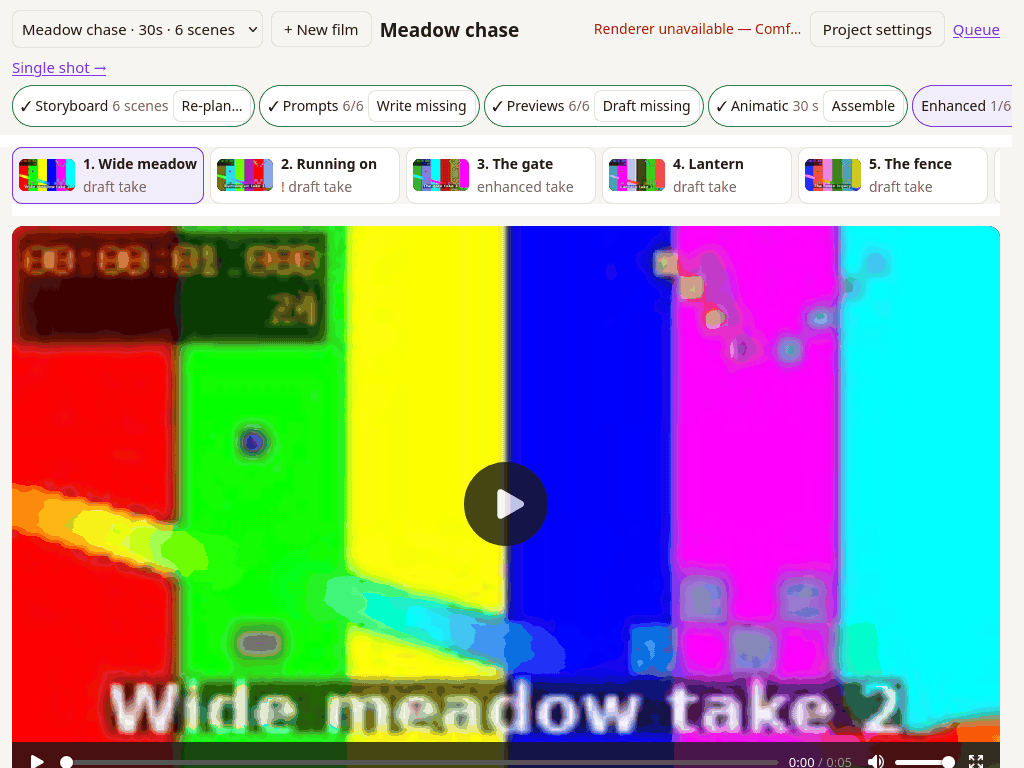
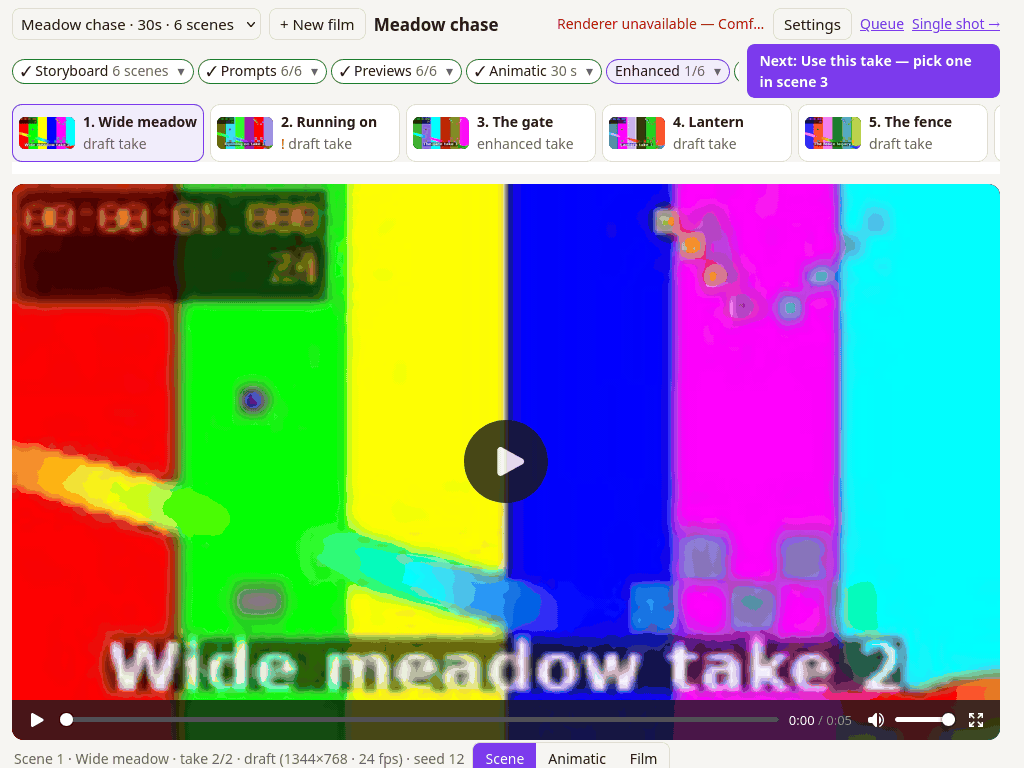
checks: assert next-action visibility, header height budget and prompt above the fold; refresh screenshots

diff --git a/tests/browser_layout.py b/tests/browser_layout.py
@@ -3,11 +3,14 @@ raw WebDriver HTTP API, against the six-scene fixture from tests/fixtures/make_f
 (real media, no ComfyUI, no director model).
 
 Layout is asserted with numbers, not vibes: at >=1100 px the viewer box keeps >=50% of the
-viewport width and >=40% of its height; below that the workspace stacks and the navigator
-becomes a horizontal strip; at <=600 px every visible tap target is >=44 px tall and text
-stays >=14 px. Status comes from words (badges, the "Renderer unavailable" chip), never from
-colour alone. Screenshots at five viewport sizes land in docs/screenshots/m3-stage-a/ for
-human review.
+viewport width and >=40% of its height and starts within 150 px of the top; the header plus the
+stage nav together stay <=110 px (<=190 px on a phone) and the next-action button is fully
+inside the viewport at every size, wrapping instead of clipping; below 1100 px the workspace
+stacks and the navigator becomes a horizontal strip; at <=600 px every visible tap target is
+>=44 px tall (the tiny caret inside a stage pill is exempt - the menu button it opens obeys)
+and text stays >=14 px. Status comes from words (badges, the "Renderer unavailable" chip),
+never from colour alone. Screenshots at five viewport sizes land in docs/screenshots/m3-stage-a/
+for human review.
 
 Needs `geckodriver` and `firefox` on PATH. Starts its own web.py on a spare port against a
 throwaway projects dir; never touches real projects.
@@ -128,10 +131,13 @@ window.__hits = (frag) => window.__log.filter(l => l.url.includes(frag)).length;
 """
 
 TARGETS = """
-  // visible interactive elements: buttons, inputs, selects, and the clickable strip/nav tiles
+  // visible interactive elements: buttons, inputs, selects, and the clickable strip/nav tiles;
+  // .stage .caret is exempt - it is the icon inside a pill whose clickable area is the whole
+  // pill, and the menu button it opens is measured by the same rule
   const els = [...document.querySelectorAll('button, input, select, textarea, .navitem, .take')];
-  const bad = [], big = [];
+  const bad = [];
   for (const e of els) {
+    if (e.matches('.stage .caret')) continue;
     if (!e.offsetParent || e.disabled && e.offsetHeight === 0) continue;
     const r = e.getBoundingClientRect();
     if (r.width < 2 || r.height < 2) continue;            // zero-size decorations do not count
@@ -173,7 +179,11 @@ def main():
               const vw = window.innerWidth, vh = window.innerHeight;
               const v = document.getElementById('viewer').getBoundingClientRect();
               const nav = document.getElementById('navigator'), insp = document.getElementById('inspector');
-              return {vw, vh, w: v.width, h: v.height,
+              const na = document.getElementById('nextAction').getBoundingClientRect();
+              return {vw, vh, w: v.width, h: v.height, top: v.top,
+                      naIn: na.height > 0 && na.left >= 0 && na.right <= vw && na.bottom <= vh,
+                      naFit: (e => e.scrollWidth <= e.clientWidth + 1)(document.getElementById('nextAction')),
+                      hdrH: document.getElementById('hdr').offsetHeight + document.getElementById('stages').offsetHeight,
                       hscroll: document.documentElement.scrollWidth <= document.documentElement.clientWidth,
                       navdir: getComputedStyle(nav).flexDirection,
                       inspScroll: insp.scrollHeight > insp.clientHeight};""")
@@ -182,8 +192,12 @@ def main():
             check(f'{tag}: viewer >= 40% of viewport height', m['h'] >= 0.4 * m['vh'], f"{m['h']:.0f} vs {m['vh']}")
             check(f'{tag}: no horizontal document scroll', m['hscroll'])
             check(f'{tag}: navigator is a vertical column', m['navdir'] == 'column', m['navdir'])
+            check(f'{tag}: next action fully inside the viewport', m['naIn'], str(m)[:120])
+            check(f'{tag}: next action wraps instead of clipping', m['naFit'], str(m)[:120])
+            check(f'{tag}: header + stage nav together <= 110 px', m['hdrH'] <= 110, f"{m['hdrH']} px")
+            check(f'{tag}: viewer starts within 150 px of the top', m['top'] <= 150, f"{m['top']:.0f} px")
         d.resize(1100, 600)          # short desktop window: the inspector column must overflow here
-        d.js("document.getElementById('promptBox').open = true; return 1;")
+        d.js("document.getElementById('scSettings').open = true; return 1;")
         insp = d.js("""const i = document.getElementById('inspector'); i.scrollTop = 500;
                        return {top: i.scrollTop, scroll: i.scrollHeight > i.clientHeight,
                                ovf: getComputedStyle(i).overflowY,
@@ -211,17 +225,57 @@ def main():
         st = d.js("return {text: document.getElementById('scStatus').textContent, pinned: [...document.querySelectorAll('#takeStrip .badge')].map(b => b.textContent)};")
         check('status line names what is in use and how it was picked', 'in use' in st['text'] and any('pinned' in b for b in st['pinned']), str(st))
 
-        # ---------- takes: lazy media, pinned selection, Stage B placeholder ----------
-        pre = d.js("""return [...document.querySelectorAll('#takeStrip video')].map(v => v.preload);""")
-        check('take strip videos preload none', all(p == 'none' for p in pre), str(pre))
+        # ---------- inspector: prompt always visible, one primary action ----------
+        for (w, h) in [(1440, 900), (1920, 1080)]:
+            d.resize(w, h)
+            p = d.js("""const i = document.getElementById('inspector');
+                        i.querySelectorAll('details').forEach(x => x.open = false);   // initial state
+                        i.scrollTop = 0;
+                        const ir = i.getBoundingClientRect(), pr = document.getElementById('scPrompt').getBoundingClientRect();
+                        const btns = [...i.querySelectorAll('button')].filter(b => {
+                          if (!b.offsetParent) return false;
+                          const r = b.getBoundingClientRect();
+                          return r.top < ir.bottom && r.bottom > ir.top && r.height > 2 && r.width > 2; });
+                        const prim = [...i.querySelectorAll('button')].filter(b => b.offsetParent &&
+                          ['Create prompt', 'Generate preview', 'Use this take', 'Generate another take'].includes(b.textContent.trim()));
+                        return {above: pr.top >= ir.top - 1 && pr.bottom <= ir.bottom + 1,
+                                scroll: i.scrollTop, nbtn: btns.length, prim: prim.length,
+                                det: [...i.querySelectorAll('details')].map(x => x.id + ':' + x.open).join(','),
+                                ids: btns.map(b => b.id || b.textContent.trim()).join(',')};""")
+            tag = f'{w}x{h}'
+            check(f'{tag}: prompt textarea fully visible without scrolling', p['above'] and p['scroll'] == 0, str(p))
+            check(f'{tag}: at most 8 visible buttons in the inspector viewport', p['nbtn'] <= 8, str(p))
+            check(f'{tag}: exactly one primary take action visible', p['prim'] == 1, str(p))
+
+        # ---------- takes: posters never videos, pinned selection, Stage B placeholder ----------
+        d.resize(1100, 900)
+        cards = d.js("""return {vids: document.querySelectorAll('#takeStrip video').length,
+                                boxes: document.querySelectorAll('#takeStrip .posterBox').length,
+                                imgs: document.querySelectorAll('#takeStrip .posterBox img').length,
+                                ov: document.querySelectorAll('#takeStrip .playOv').length};""")
+        check('take strip shows zero inline <video> players', cards['vids'] == 0, str(cards))
+        check('every take card has a poster and a play affordance',
+              cards['boxes'] == 2 and cards['imgs'] == 2 and cards['ov'] == 2, str(cards))
+        rows = d.js("""const t = document.querySelector('#takeStrip .take');
+                       const bs = [...t.querySelectorAll('.takeActions button')].map(b => Math.round(b.getBoundingClientRect().top));
+                       return {uniq: new Set(bs).size, n: bs.length};""")
+        check('card action buttons sit on one row at 1100 px', rows['n'] >= 2 and rows['uniq'] == 1, str(rows))
+        d.js("""const c = document.querySelector('#takeStrip .take:not(.chosen)');
+                window.__before = document.getElementById('viewer').currentSrc || document.getElementById('viewer').src;
+                c.click(); return 1;""")
+        vs = d.js("return [document.getElementById('viewer').currentSrc || document.getElementById('viewer').src, window.__before];")
+        check('clicking a take card plays it in the viewer', vs[0] != vs[1] and '/files/' in vs[0], str(vs)[:160])
         check('viewer video preloads metadata',
               d.js("return document.getElementById('viewer').preload;") == 'metadata')
         cmp = d.js("return [document.getElementById('bCompare').disabled, document.getElementById('compareWhy').textContent];")
         check('Compare takes is disabled with its Stage B reason visible', cmp[0] and cmp[1] == 'Stage B', str(cmp))
         d.js("document.querySelector('#takeStrip .take [data-k=bUse]').click();")
         d.wait("window.__hits('/star') > 0")
-        check('Use this take pins the take (star)',
-              bool(d.wait("[...document.querySelectorAll('#takeStrip .badge')].some(b => b.textContent === '★ in use (pinned)')")))
+        check('Use this take pins the take (one badge: pinned)',
+              bool(d.wait("[...document.querySelectorAll('#takeStrip .badge')].some(b => b.textContent === 'pinned')")))
+        check('exactly one Release to auto control when pinned',
+              d.js("""return [...document.querySelectorAll('button')].filter(b =>
+                      b.offsetParent && b.textContent.trim() === 'Release to auto').length;""") == 1)
 
         # ---------- autosave glue on the new ids ----------
         d.js("""const i = document.getElementById('scAction'); i.value = i.value + ' and the wind drops.';
@@ -233,7 +287,7 @@ def main():
         # ---------- one take, one provenance fetch ----------
         before = d.js("return window.__hits('/take?id=');")
         d.js("document.querySelector('#takeStrip .take [data-k=bDetails]').click();")
-        d.wait("!document.getElementById('techBox').hidden")
+        d.wait("!document.getElementById('techDetails').hidden && document.getElementById('techDetails').open")
         rows = d.js("""const rows = {};
             for (const r of document.querySelectorAll('#techBox .trow'))
                 rows[r.querySelector('b').textContent] = r.querySelector('span').textContent;
@@ -242,9 +296,26 @@ def main():
         check('provenance is fetched exactly once', d.js("return window.__hits('/take?id=');") == before + 1)
         time.sleep(4)   # a poll cycle must not refetch or close the open panel
         check('a poll does not refetch provenance', d.js("return window.__hits('/take?id=');") == before + 1
-              and not d.js("return document.getElementById('techBox').hidden;"))
+              and d.js("return document.getElementById('techDetails').open;"))
         d.js("document.querySelector('#takeStrip .take [data-k=bDetails]').click();")
-        check('Details toggles closed', d.js("return document.getElementById('techBox').hidden;"))
+        check('Details toggles closed', d.js("return !document.getElementById('techDetails').open;"))
+
+        # ---------- stage nav: every stage action is reachable through its menu ----------
+        d.resize(1440, 900)
+        d.js("document.querySelectorAll('#stageChips .stage')[1].click(); return 1;")
+        check('a stage pill opens its action menu',
+              bool(d.wait("!!document.getElementById('stageMenu')")))
+        mbtn = d.js("""const b = document.querySelector('#stageMenu button');
+                       const r = b.getBoundingClientRect();
+                       return {txt: b.textContent, dis: b.disabled,
+                               in: r.left >= 0 && r.right <= innerWidth && r.bottom <= innerHeight && r.height >= 32};""")
+        check('the menu action is visible, enabled and full-size', not mbtn['dis'] and mbtn['in'], str(mbtn))
+        m_before = d.js("return window.__hits('/prompts');")
+        d.js("document.querySelector('#stageMenu button').click(); return 1;")
+        check('the menu action reaches the server', bool(d.wait("window.__hits('/prompts') > " + str(m_before), timeout=5)))
+        check('clicking the menu closes it', d.js("return !document.getElementById('stageMenu');"))
+        d.go(f'http://127.0.0.1:{WEB_PORT}/project?p={slug}')   # clean slate after the failed director job
+        d.wait("document.querySelectorAll('#navigator .navitem').length === 6", timeout=20)
 
         # ---------- stacked tablet: navigator becomes a strip ----------
         for (w, h) in [(1024, 768), (768, 1024)]:
@@ -252,14 +323,19 @@ def main():
             m = d.js("""const nav = document.getElementById('navigator');
                         const first = document.querySelector('#navigator .navitem').getBoundingClientRect();
                         const second = document.querySelectorAll('#navigator .navitem')[1].getBoundingClientRect();
+                        const na = document.getElementById('nextAction').getBoundingClientRect();
                         return {navdir: getComputedStyle(nav).flexDirection, side: second.left > first.left,
                                 hscroll: document.documentElement.scrollWidth <= document.documentElement.clientWidth,
                                 hdrFirst: document.querySelector('header').getBoundingClientRect().top <= 1,
                                 navTop: nav.getBoundingClientRect().top,
+                                naIn: na.height > 0 && na.left >= 0 && na.right <= innerWidth && na.bottom <= innerHeight,
+                                naFit: (e => e.scrollWidth <= e.clientWidth + 1)(document.getElementById('nextAction')),
                                 viewTop: document.getElementById('viewerBox').getBoundingClientRect().top};""")
             tag = f'{w}x{h}'
             check(f'{tag}: navigator is a horizontal strip', m['navdir'] == 'row' and m['side'], str(m))
             check(f'{tag}: header above the viewer, no horizontal scroll', m['hdrFirst'] and m['viewTop'] >= m['navTop'] and m['hscroll'], str(m))
+            check(f'{tag}: viewer starts within 260 px of the top', m['viewTop'] <= 260, f"{m['viewTop']:.0f} px")
+            check(f'{tag}: next action fully inside the viewport, wrapping not clipping', m['naIn'] and m['naFit'], str(m))
 
         # ---------- phone: order and tap targets ----------
         # headless firefox clamps real windows to >= 500 css px wide, and geckodriver's
@@ -281,6 +357,25 @@ def main():
                         return {hdr: y('header'), view: y('#viewerBox'), insp: y('#inspector'), nav: y('#navigator')};""")
         check('phone order: header, viewer, inspector, navigator chips',
               order['hdr'] < order['view'] < order['insp'] < order['nav'], str(order))
+        hdr = d.js("""window.scrollTo(0, 0);
+                      const kids = [...document.querySelectorAll('#hdr > *')].filter(e =>
+                        e.offsetParent && e.getBoundingClientRect().height > 2);
+                      const rows = new Set(kids.map(e => Math.round(e.getBoundingClientRect().top / 6) * 6)).size;
+                      const na = document.getElementById('nextAction').getBoundingClientRect();
+                      const seen = id => document.getElementById(id) && document.getElementById(id).offsetParent !== null;
+                      return {rows,
+                              vis: seen('openSettings') && seen('backend') &&
+                                   !!document.querySelector('#hdr .btn-shot') &&
+                                   [...document.querySelectorAll('#hdr a')].every(a => a.offsetParent !== null),
+                              naIn: na.height > 0 && na.left >= 0 && na.right <= innerWidth && na.bottom <= innerHeight,
+                              naFit: (e => e.scrollWidth <= e.clientWidth + 1)(document.getElementById('nextAction')),
+                              hdrH: document.getElementById('hdr').offsetHeight + document.getElementById('stages').offsetHeight,
+                              viewTop: document.getElementById('viewerBox').getBoundingClientRect().top};""")
+        check('phone: header controls stay on at most 2 rows', hdr['rows'] <= 2, str(hdr))
+        check('phone: settings, queue, single-shot and the backend chip are visible', hdr['vis'], str(hdr))
+        check('phone: next action fully inside the viewport, wrapping not clipping', hdr['naIn'] and hdr['naFit'], str(hdr))
+        check('phone: header + stage nav together <= 190 px', hdr['hdrH'] <= 190, str(hdr))
+        check('phone: viewer starts within 260 px of the top', hdr['viewTop'] <= 260, f"{hdr['viewTop']:.0f} px")
         r = d.js(TARGETS, 44)
         check('phone: every visible tap target is >= 44 px tall', not r['bad'], '; '.join(r['bad']))
         fonts = d.js("""

diff --git a/docs/ui-capability-map.md b/docs/ui-capability-map.md
@@ -25,12 +25,12 @@ page (loads ids/handler names below).
 | Film title `#pTitle` | global section | header shows name; editing input `#pTitle` in Project settings drawer | moved to Project settings | browser_layout (typing → /save) |
 | Film length/aspect (`#nSeconds`, `#nAspect`) | New film | New film view; Project settings shows read-only `#pSizeText` (aspect + render size) — size was never editable per-film | kept | — |
 | Pruning `#freeSpace` → POST `/api/p/<slug>/prune` | Scenes header | Project settings drawer (same id) | moved to Project settings | browser_layout (dry-run request) |
-| Project re-plan `replan()` → POST `storyboard` | stepper step 1 | stage chip "Re-plan…" (same handler) | kept | browser_layout (chip fires confirm+POST) |
-| Write missing prompts `run('prompts',{only_missing:true})` | stepper step 2 | stage chip | kept | browser_layout (click → POST) |
-| Draft missing (`draft-all`) | stepper step 3 | stage chip | kept | browser_layout |
-| Assemble animatic (`assemble {kind:'animatic'}`) | stepper step 4 | "Preview film" button (`#bPreviewFilm`) + stage chip | kept, label fixed | browser_layout (POST) |
-| Enhance ★ takes (`enhance-starred`) | stepper step 5 | stage chip (Project-level batch) | kept | browser_layout |
-| Assemble film (`assemble {kind:'film'}`) | stepper step 6 | "Export film" button (`#bExportFilm`) + stage chip | kept, label fixed | browser_layout (POST) |
+| Project re-plan `replan()` → POST `storyboard` | stepper step 1 | stage pill's caret menu "Re-plan…" (same handler) | kept | browser_layout (pill → menu → POST) |
+| Write missing prompts `run('prompts',{only_missing:true})` | stepper step 2 | stage pill's caret menu | kept | browser_layout (menu button → POST) |
+| Draft missing (`draft-all`) | stepper step 3 | stage pill's caret menu | kept | browser_layout |
+| Assemble animatic (`assemble {kind:'animatic'}`) | stepper step 4 | "Preview film" button (`#bPreviewFilm`, viewer row) + stage pill's caret menu | kept, label fixed | browser_layout (POST) |
+| Enhance ★ takes (`enhance-starred`) | stepper step 5 | stage pill's caret menu (Project-level batch) | kept | browser_layout |
+| Assemble film (`assemble {kind:'film'}`) | stepper step 6 | "Export film" button (`#bExportFilm`, viewer row) + stage pill's caret menu | kept, label fixed | browser_layout (POST) |
 | Batch progress bar `#batch`/`#batchText`/`#batchBar` + `#batchCancel` → POST `cancel` | stepper card | header batch bar (same ids) | kept | browser_layout (fixture has no live batch; handler checked) |
 | Per-scene cancellation | (same batch cancel) | inspector: header batch bar `#batchCancel` cancels the film's jobs (unchanged API) | kept | browser_layout |
 | Timeline `#timeline` + legend | section | below viewer; click selects scene instead of scrolling | kept | browser_layout |
@@ -42,7 +42,7 @@ page (loads ids/handler names below).
 | Delete scene `remove()` | per scene header row | inspector `#bDeleteScene` | moved | browser_layout (confirm + save) |
 | Scene title/seconds/connect/transition inputs (`data-k`) | per scene card | inspector (`#scTitle`/`#scSeconds`/`#scConnect`/`#scTransition`) | moved | browser_layout (typing → /save) |
 | Scene action/intent textarea (`data-k=action`) | per scene card | inspector `#scAction` | moved | browser_layout |
-| H3 prompt textarea + `mode`/`check` badges (details) | per scene card | inspector expandable (same key `prompt`) | moved | browser_layout (typing → /save) |
+| H3 prompt textarea + `mode`/`check` badges (details) | per scene card | inspector, always visible above the fold (no details wrapper); badges in the status line | moved | browser_layout (typing → /save; textarea fully visible with `scrollTop==0`) |
 | Prompt history `#hist`/`historyRows` + Restore → POST `restore_prompt` | per scene card | inspector expandable "Prompt history" | moved | browser_layout (Restore posts) |
 | Rewrite/Write prompt `bPrompt` (`scenePrompt()` → POST `prompt`) | per scene button | inspector **Create prompt** (`#bCreatePrompt`, same flow incl. elapsed tick) | moved, label fixed | browser_layout (POST) |
 | Draft render `bDraft` (POST `render` preset draft) | per scene button | inspector **Generate preview** (`#bPreview`) | moved, label fixed | browser_layout (POST) |
@@ -53,10 +53,10 @@ page (loads ids/handler names below).
 | Compare takes | — (did not exist) | inspector **Compare takes**, disabled with reason "Stage B" | not yet — Stage B (comparison UI is the next M3 step) | browser_layout (disabled + reason shown) |
 | Job progress chips `data-k=job` (stages) | per scene card | inspector status line ("Running · upscale …") + take-strip state text | kept (words, not colour) | browser_layout (fixture has no live job; text states checked) |
 | Validity badges `updateFlags` (`.flags .badge.stale`/`.soft`, FLAG_LABEL texts) | per scene card | inspector status line + navigator state text (same flag words from `scene.status`) | kept (words/icons) | browser_status.py (classic); browser_layout (new, fixture text) |
-| Take strip videos (`preload=none`, `.take`) | per scene card | viewer take strip (same `preload=none`, poster/thumb first) | kept + lazy poster | browser_status.py #10 (classic); browser_layout (new) |
+| Take strip videos (`preload=none`, `.take`) | per scene card | take strip cards: poster `<img>` from GET `poster?id=` (ffmpeg, cached in `frames/`), placeholder + play overlay; **zero** `<video>` elements in the strip — card click loads the take into the single viewer | moved | browser_layout (0 videos, 2 posters, click → viewer `/files/` src); test_poster.py (endpoint) |
 | Take badges (preset/final, seed, variant, chosen) | take meta | take strip card meta + viewer info | kept | browser_layout |
-| Choose take `bChoose` (POST `star {scene,take}`) | take meta | take strip **Use this take** + inspector `#bUseTake` | kept, label fixed | browser_layout (POST) |
-| Release to auto `bAuto` (POST `star {auto:true}`) | take meta | inspector button beside Use this take | kept | browser_layout |
+| Choose take `bChoose` (POST `star {scene,take}`) | take meta | take strip card **Use this take**; the inspector's single primary action offers the same when the viewer take is unpinned | kept, one control per card | browser_layout (POST, badge "pinned") |
+| Release to auto `bAuto` (POST `star {auto:true}`) | take meta | the pinned card's own button (the one release control; no duplicate in the inspector) | moved | browser_layout (exactly one visible "Release to auto") |
 | Take Details (GET `/api/p/<slug>/take?id=…`, `.trow` provenance rows, legacy honesty) | take card | inspector expandable "Technical details" (lazy, per-take cache `takeOpen/takeData`) | kept | browser_status.py (classic); browser_layout (opens + rows) |
 | Save-status flows: `pump/doSave/flushEdits`, 409 Reload/Keep-mine | script | script (unchanged except DOM glue) | kept | autosave_check.js, browser_autosave.py |
 | Poll `setInterval(refresh, 3000)` + `setIfIdle` focus guard | script | script (same) | kept | browser_autosave.py (classic), browser_layout (new: typing focus survives poll) |
@@ -74,6 +74,8 @@ page (loads ids/handler names below).
   visible reason "Stage B".
 - **Queue drawer**: the header links to the existing `/queue` page (real jobs, real times); an in-page
   drawer is Stage B.
-- **Per-take thumbnails in real projects**: the page renders `take.thumb_url` when a take record carries
-  one (the fixture demonstrates this); no server code writes thumbnails yet, so real projects fall back to
-  a `preload="none"` video box — nothing eager loads.
+- **Per-take posters in real projects**: the strip renders `take.thumb_url` when a record carries one
+  (fixture-only — real `project.json` takes never do); otherwise the card asks
+  `GET /api/p/<slug>/poster?id=`, which extracts a frame with ffmpeg and caches it as
+  `frames/<take id>-poster.jpg`. If no media is on disk the card falls back to a plain placeholder —
+  nothing eager loads and the strip still holds no `<video>` elements.
